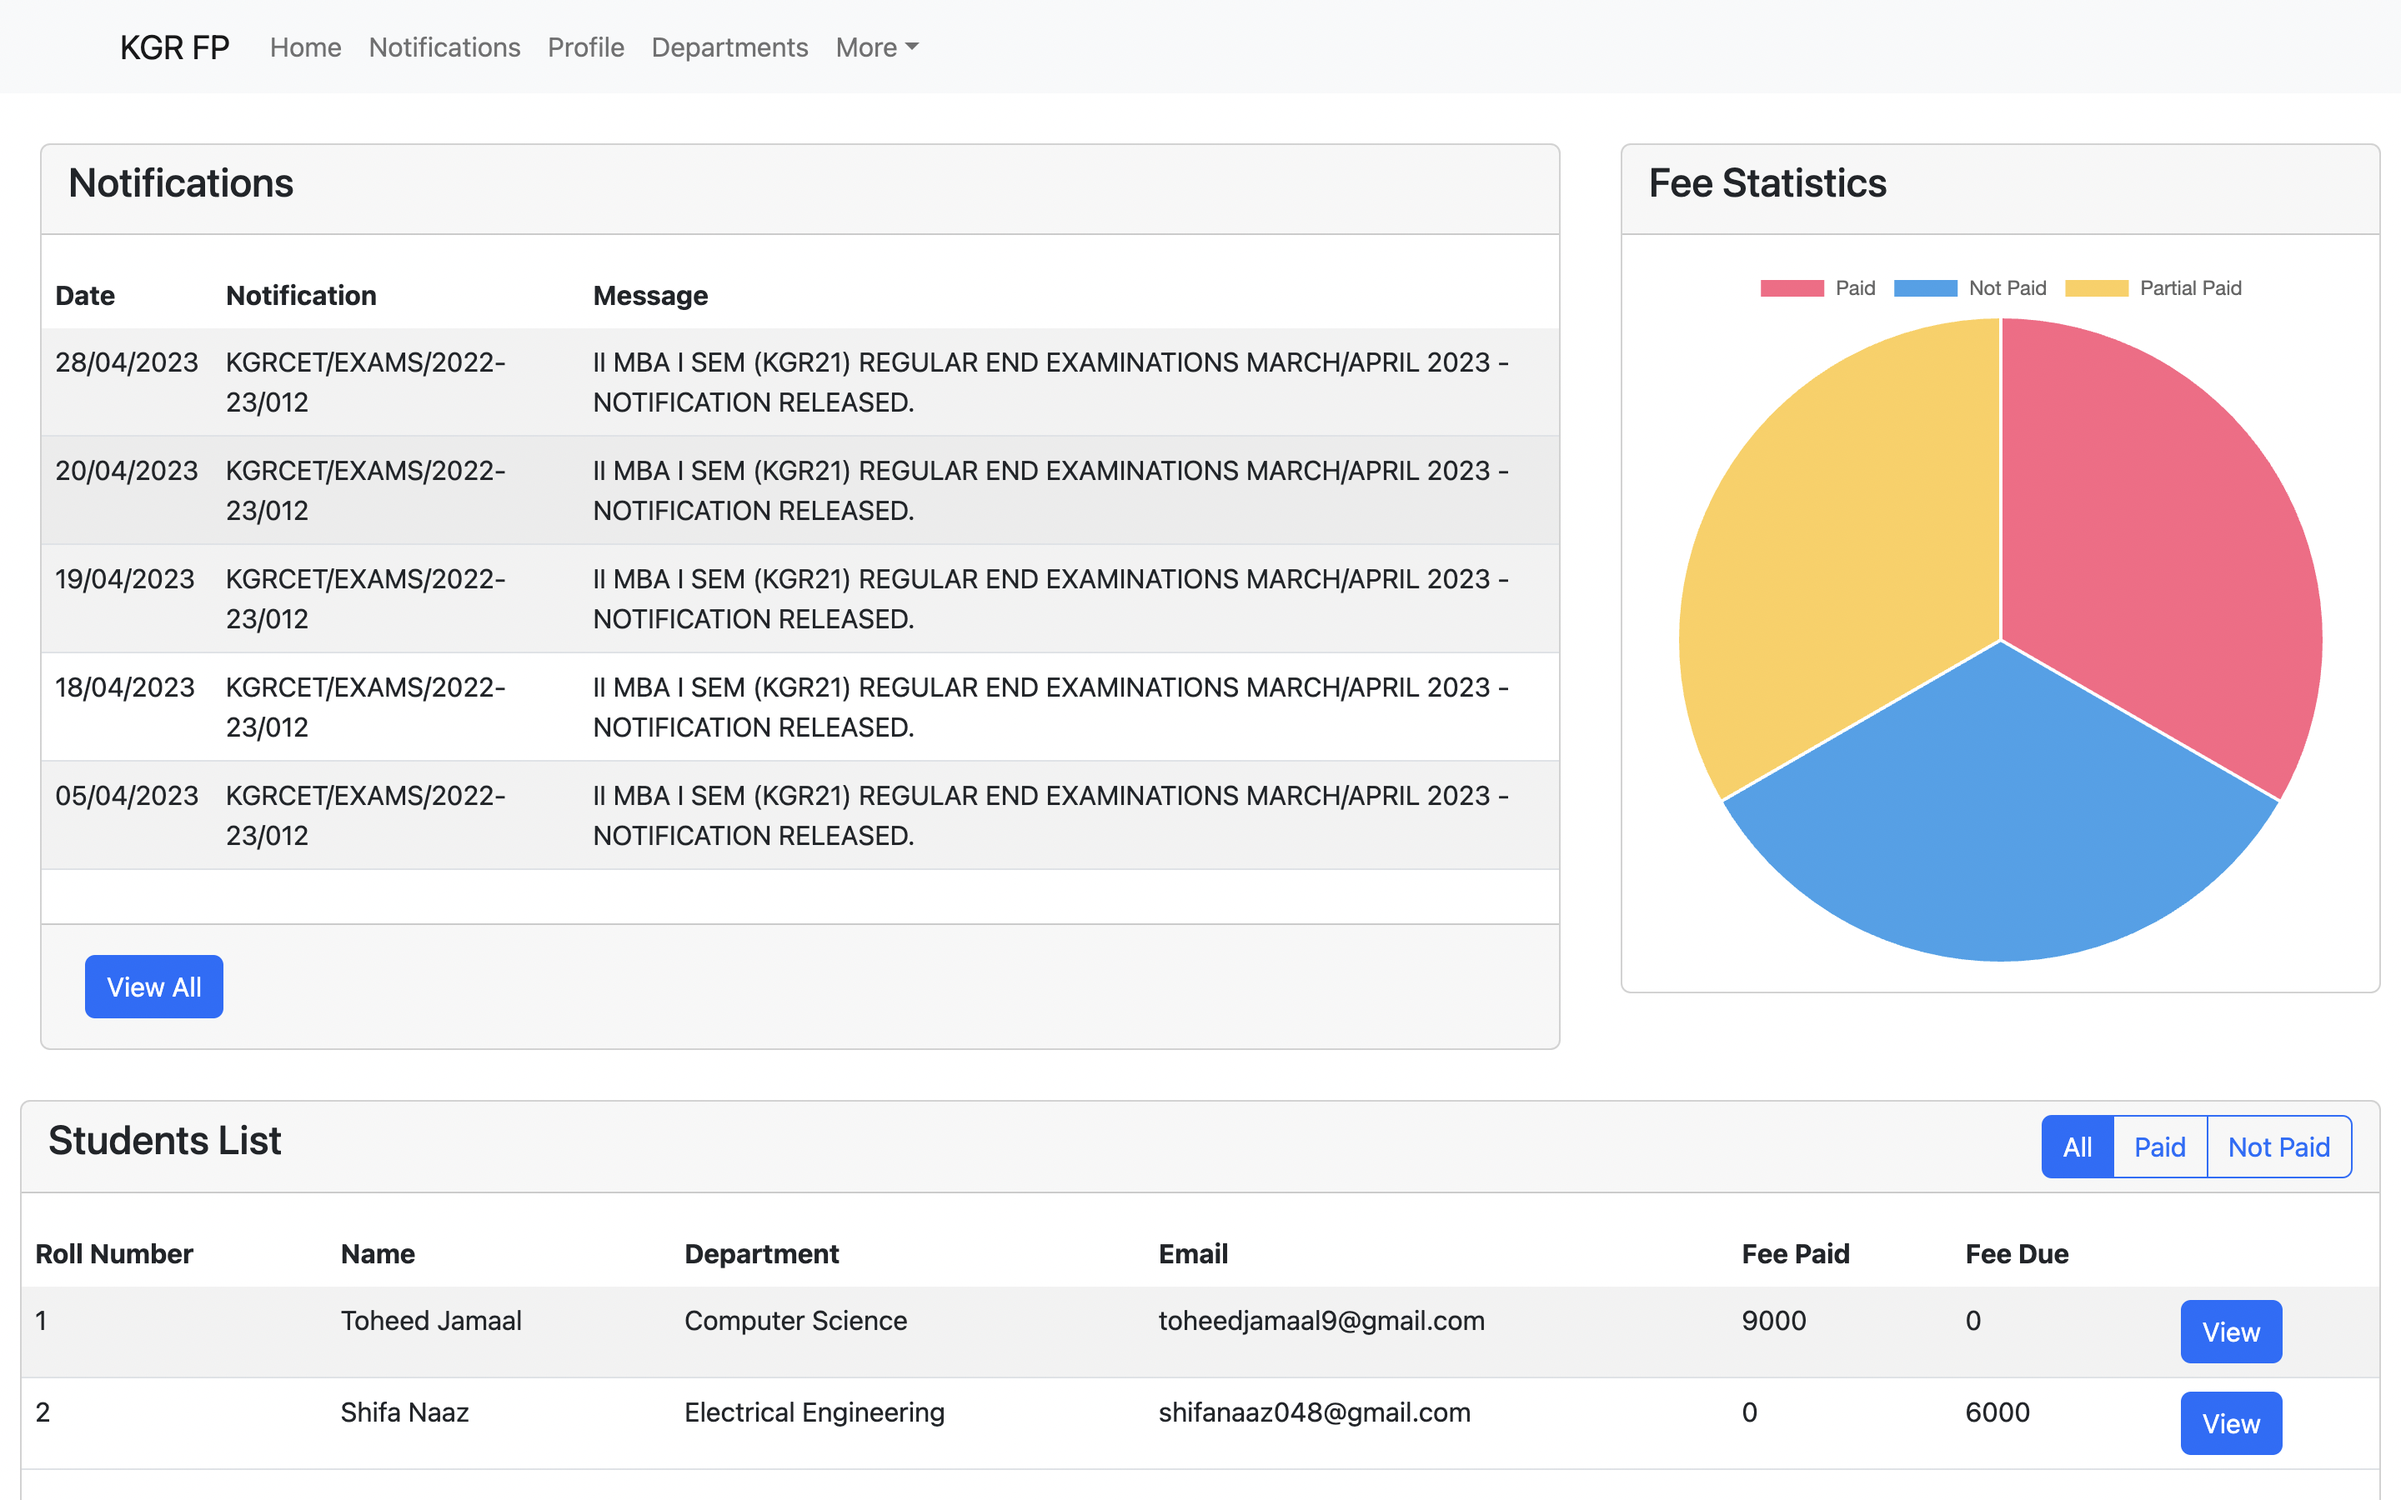
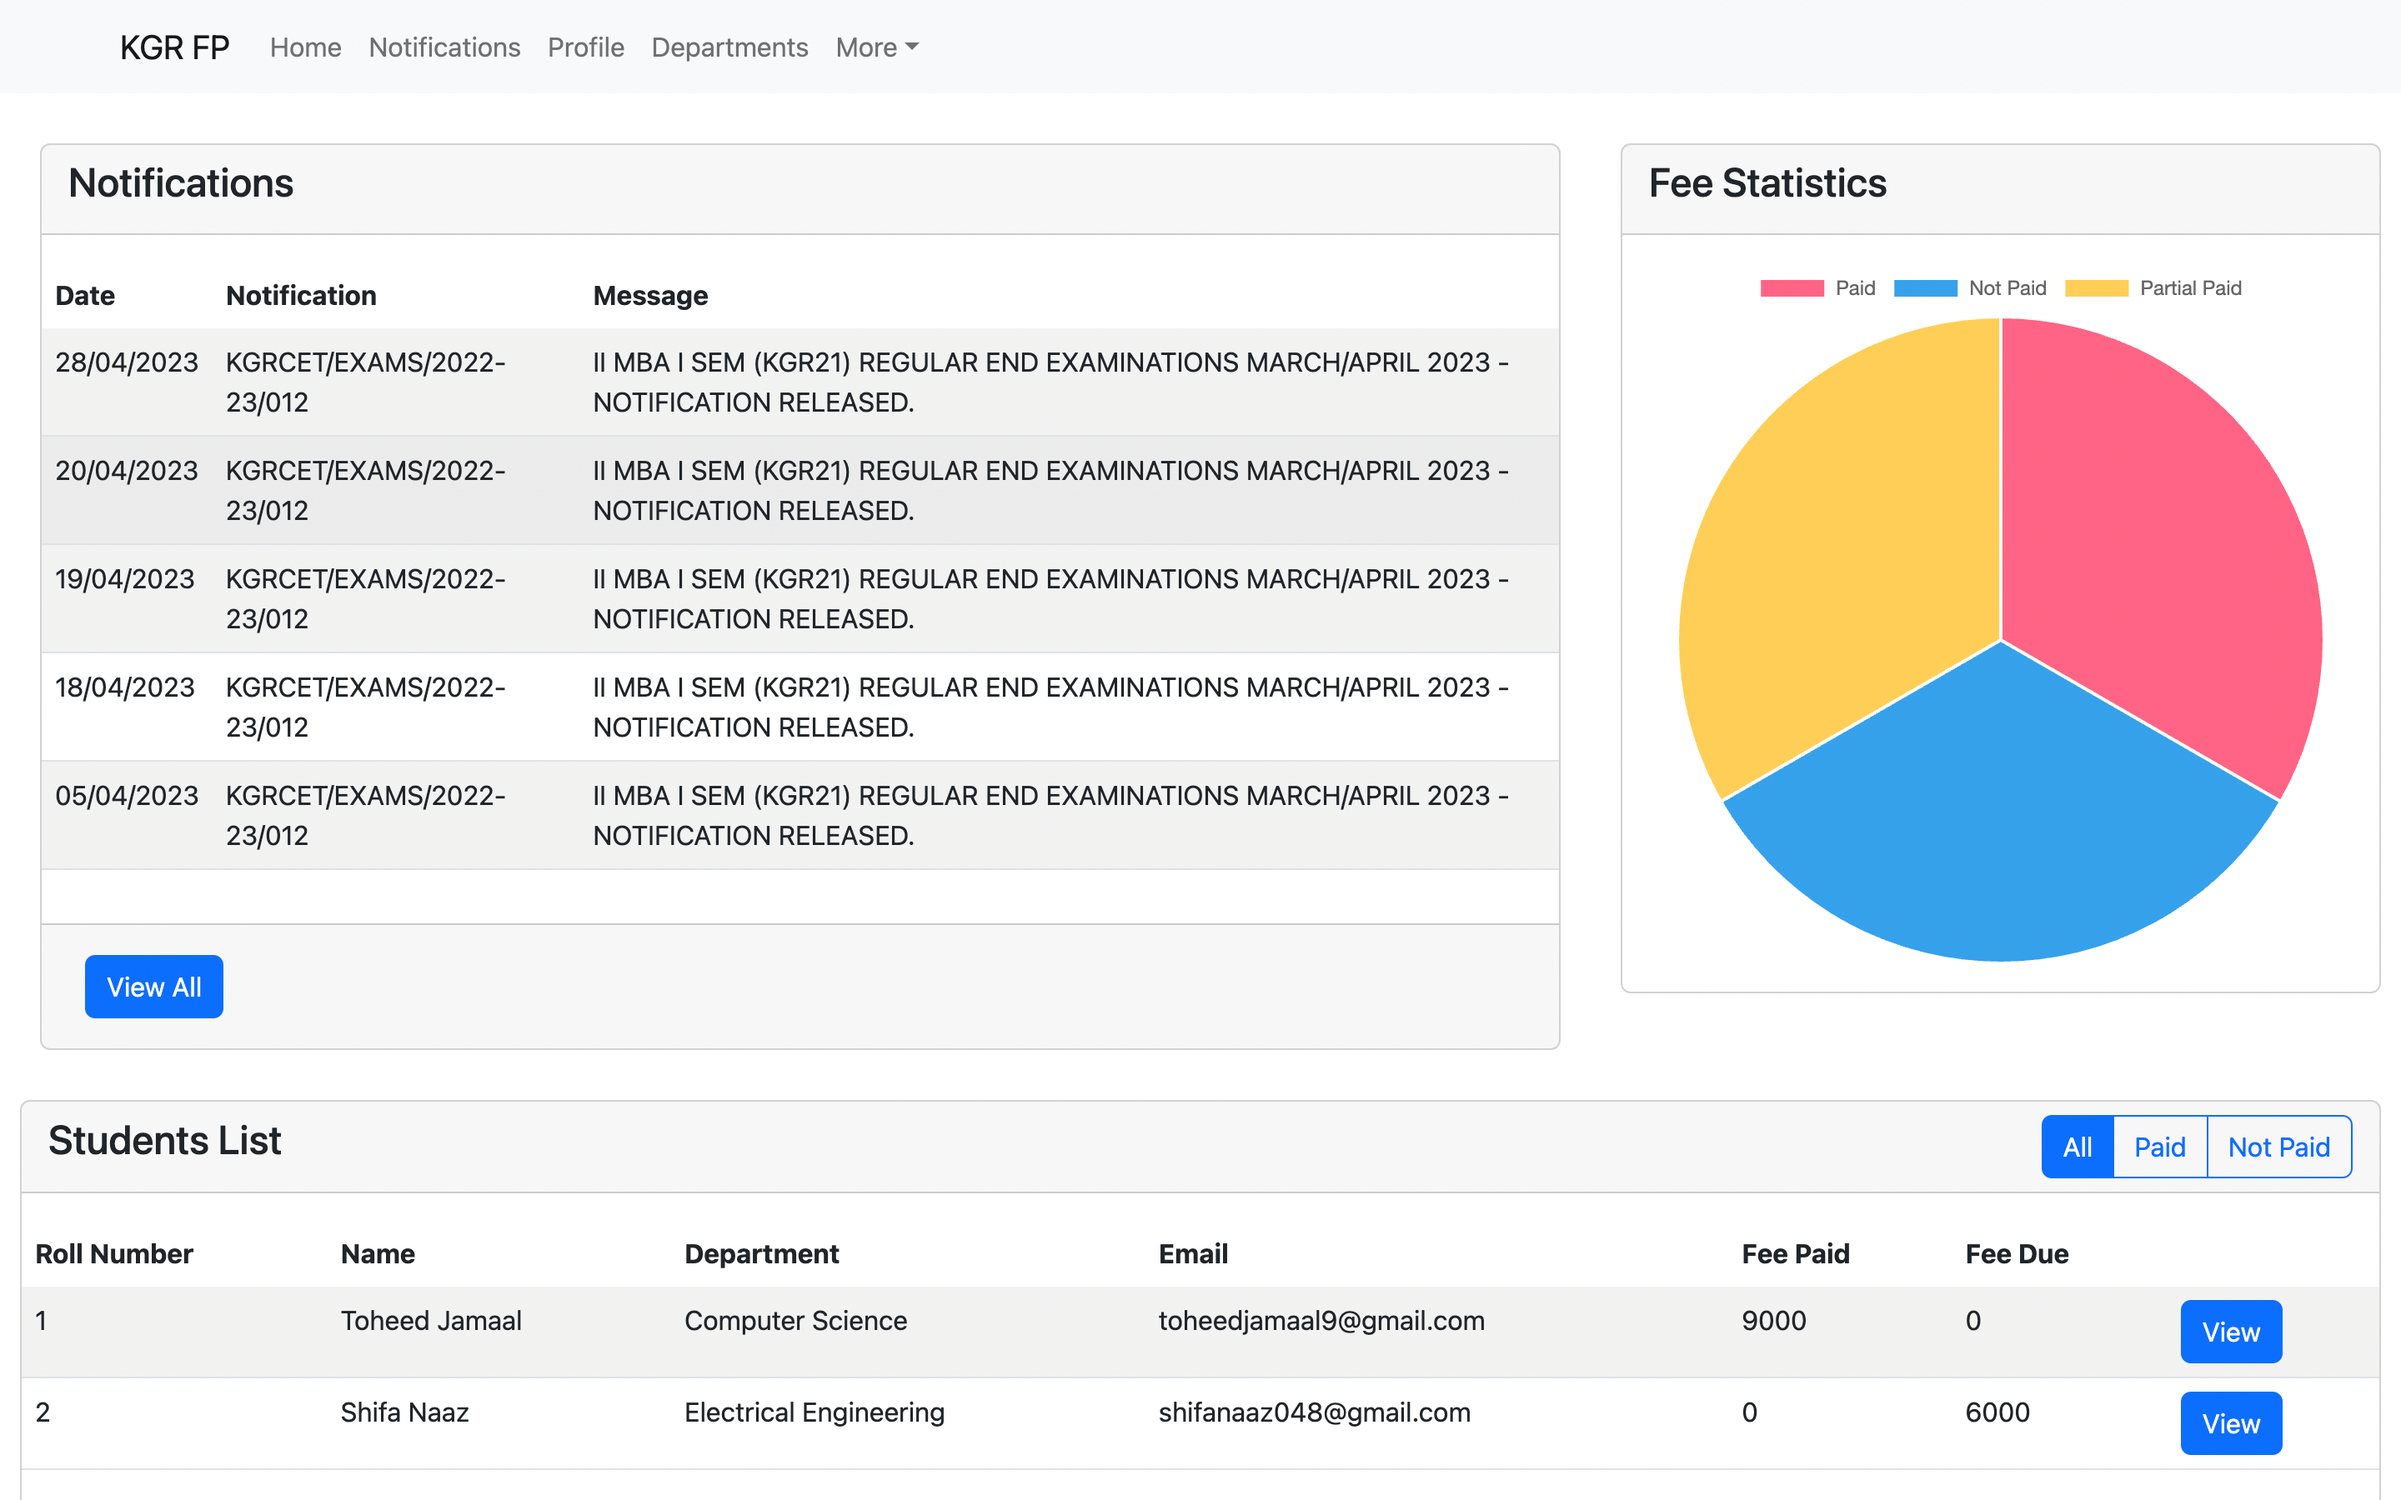
compressed the size of images

diff --git a/src/assets/index.js b/src/assets/index.js
@@ -31,9 +31,7 @@ import starbucks from "./company/starbucks.png";
 import tesla from "./company/tesla.png";
 import iic from "./company/iic.png"
 
-import carrent from "./carrent.png";
-import jobit from "./jobit.png";
-import tripguide from "./tripguide.png";
+
 import youtube from "./youtube-logo.png";
 import ecommerce from "./e-commerce-logo.png";
 import feePortal from "./fee-portal.png"
@@ -67,9 +65,6 @@ export {
   starbucks,
   iic,
   tesla,
-  carrent,
-  jobit,
-  tripguide,
   ecommerce,
   youtube,
   feePortal

diff --git a/src/constants/index.js b/src/constants/index.js
@@ -20,11 +20,6 @@ import {
   meta,
   starbucks,
   iic,
-  tesla,
-  shopify,
-  carrent,
-  jobit,
-  tripguide,
   ecommerce,
   youtube,
   feePortal,
